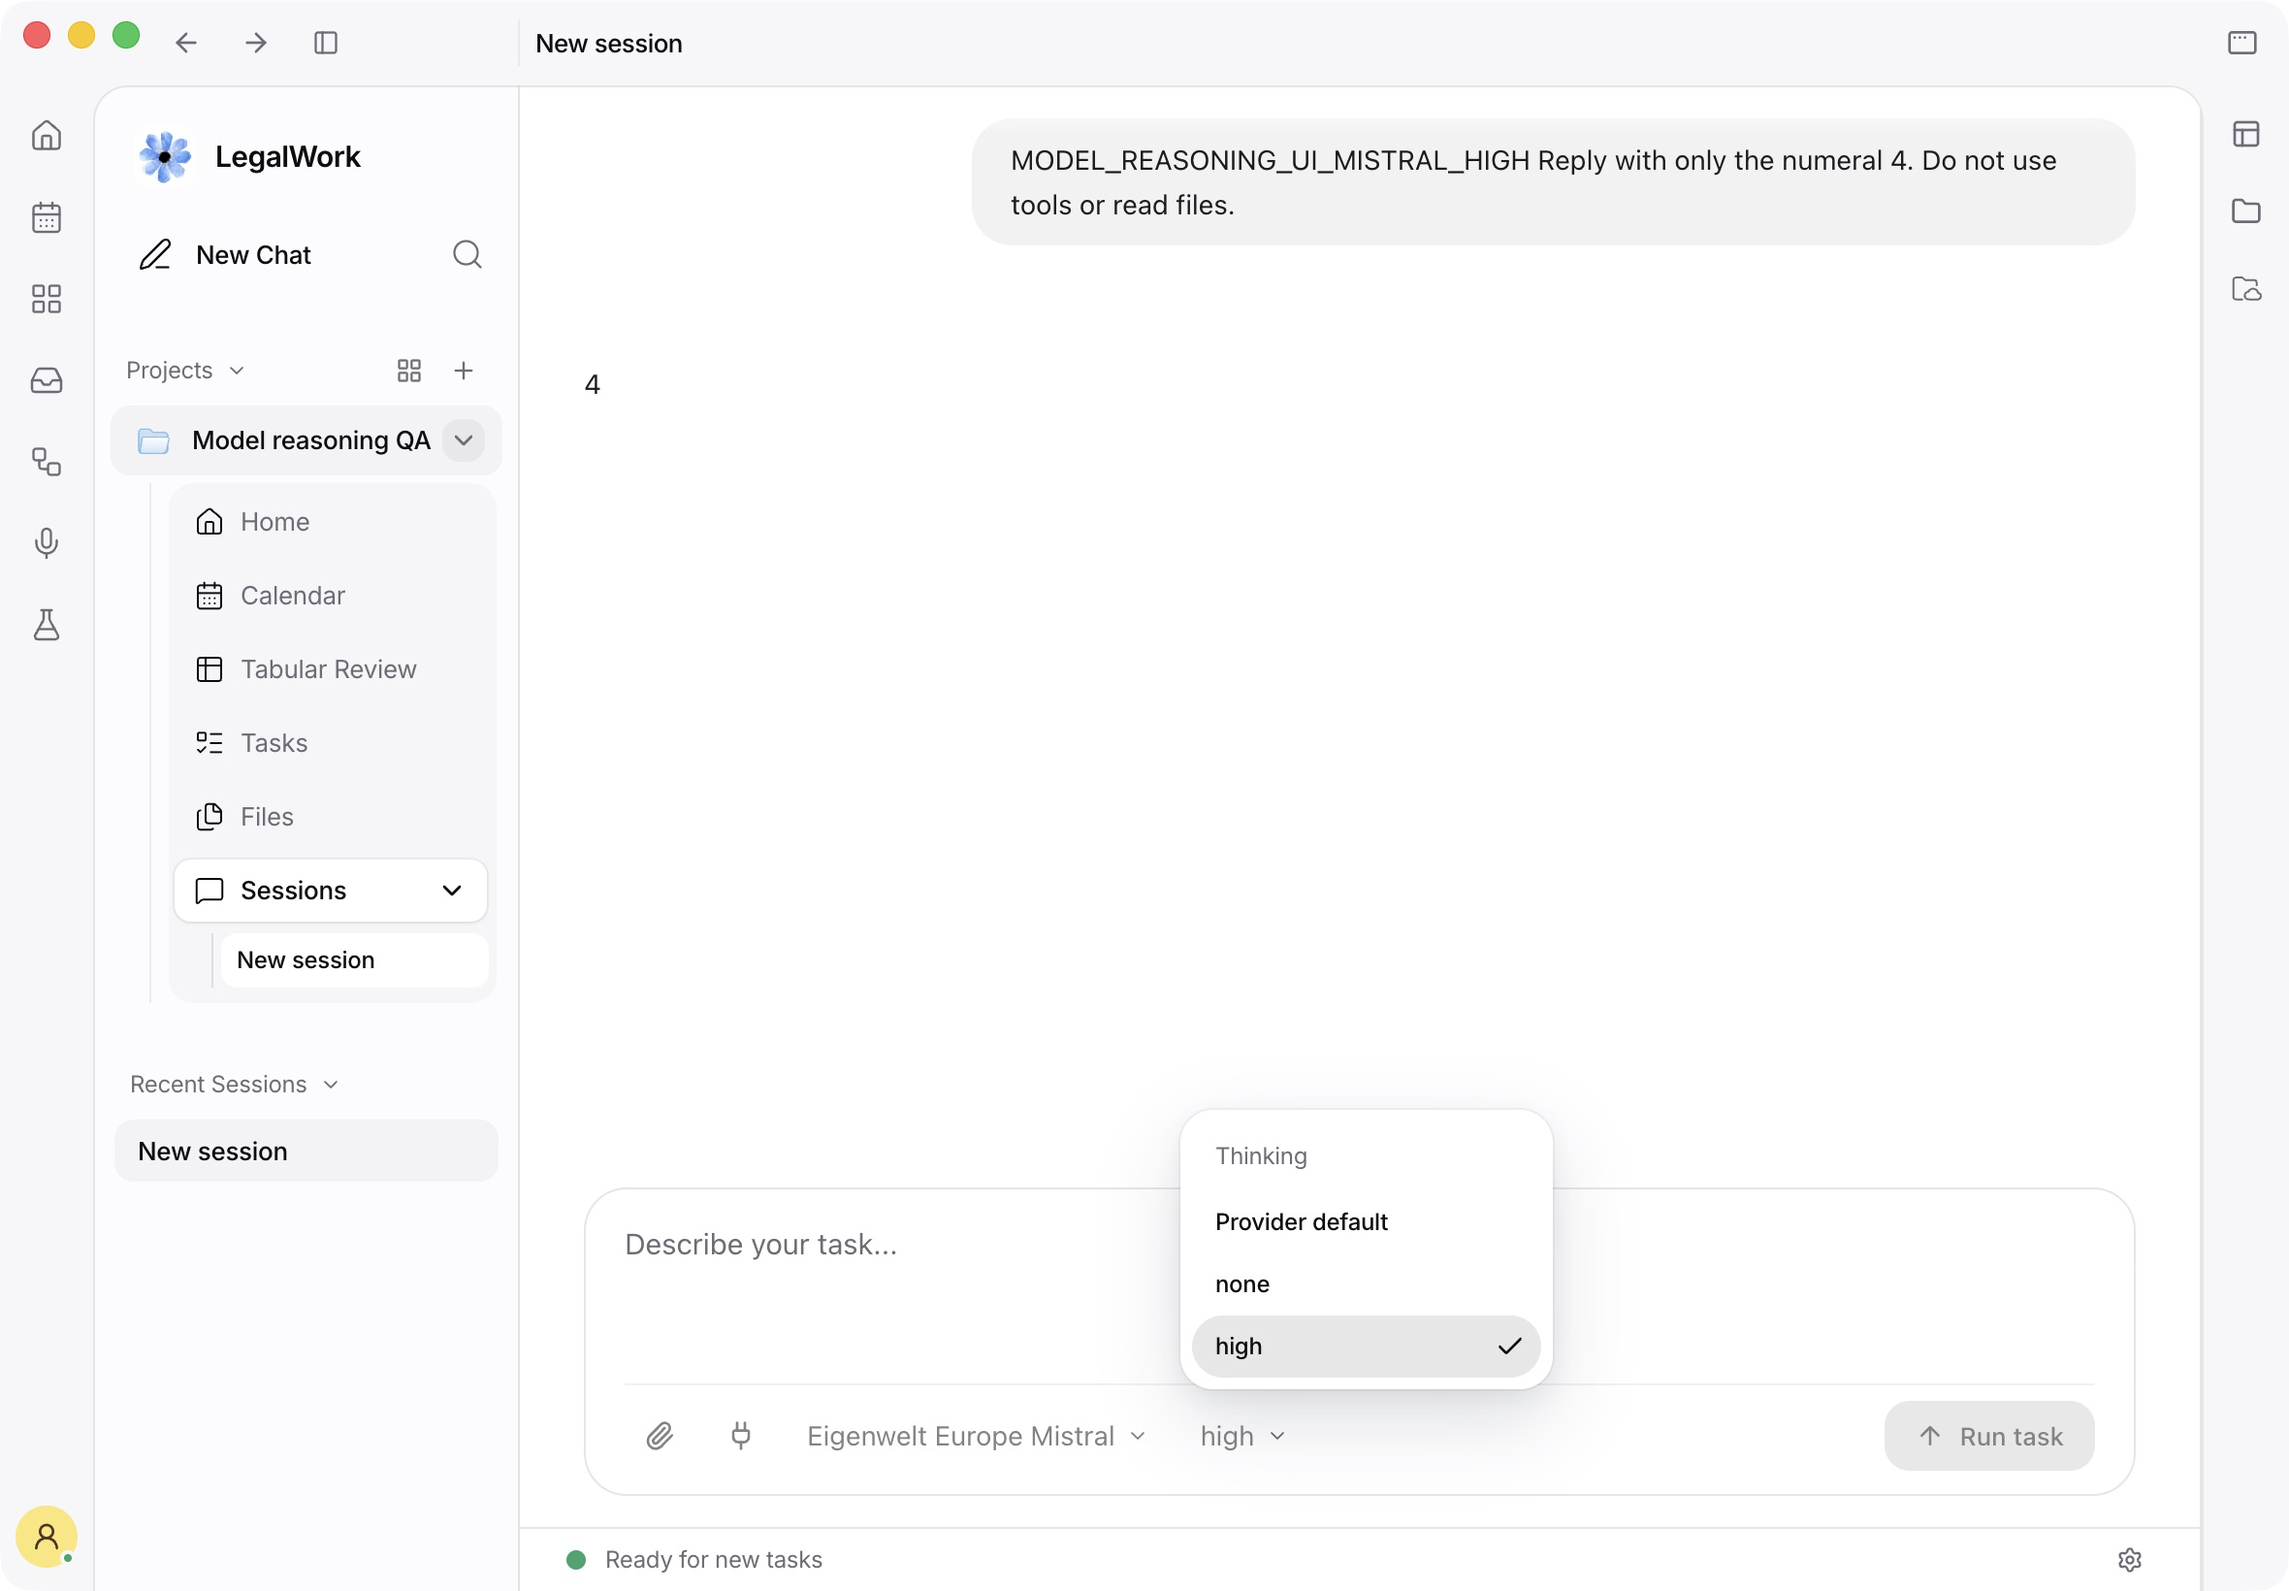
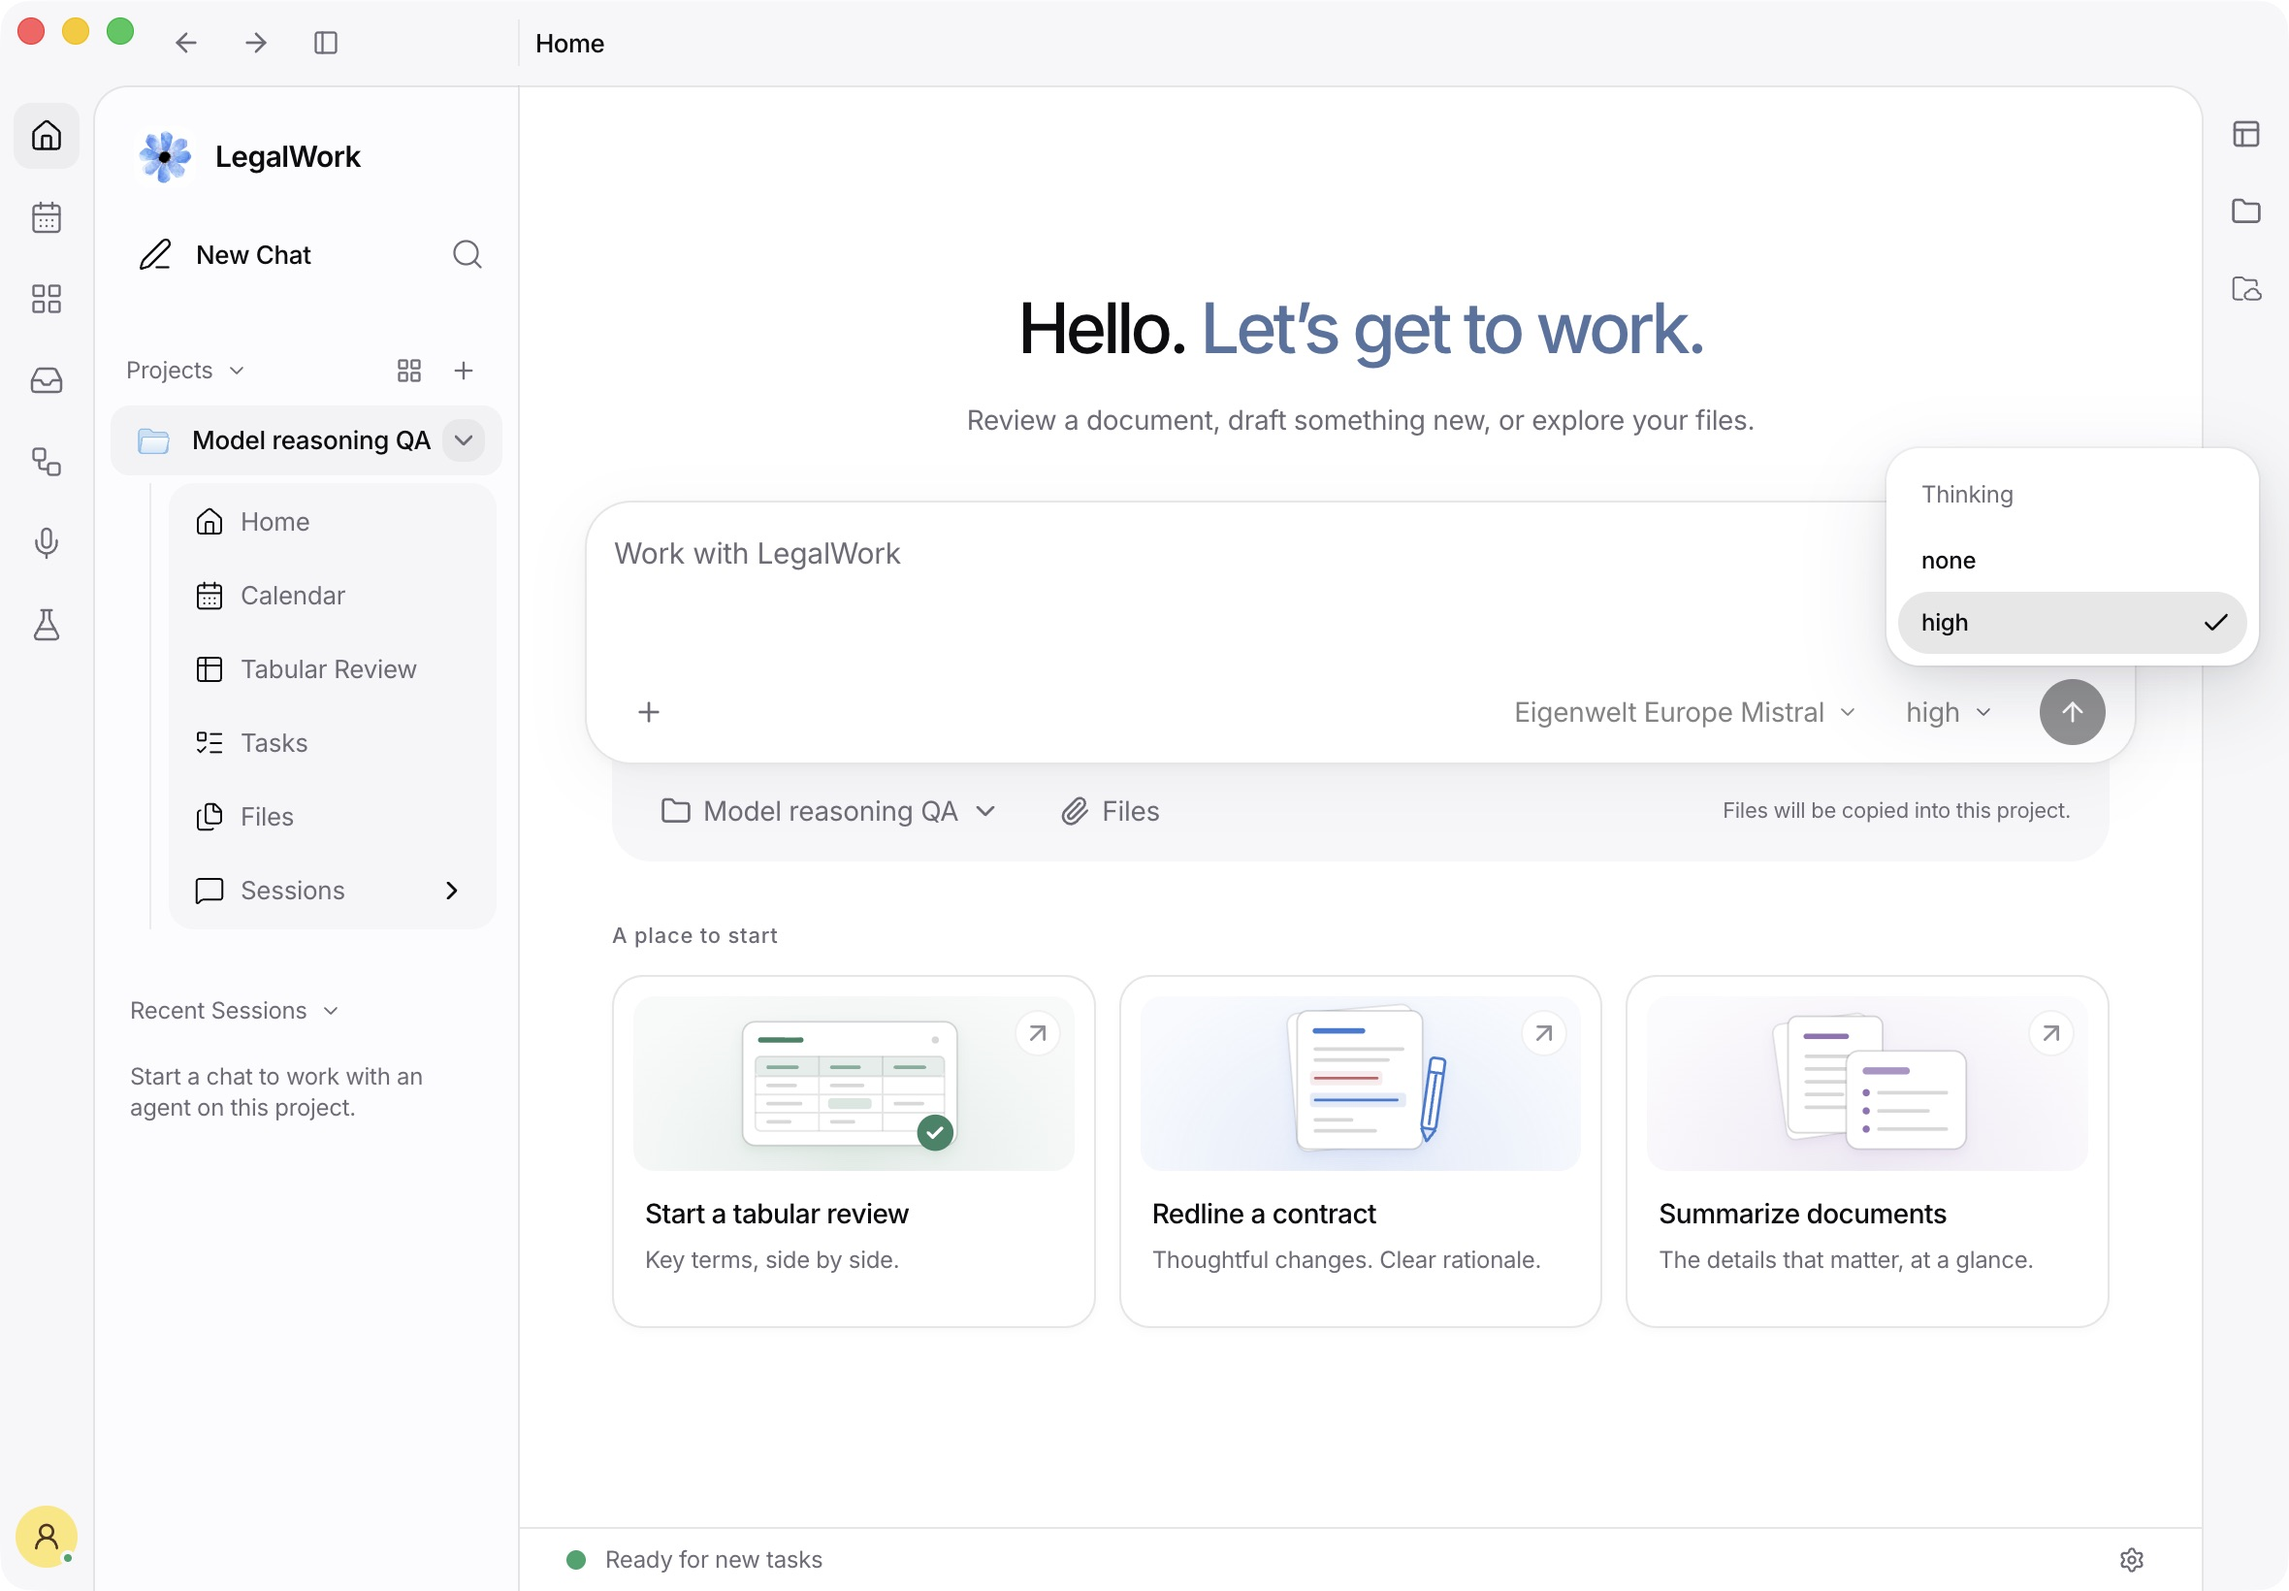
Preselect native reasoning defaults without an extra dropdown entry

diff --git a/apps/app/src/app/lib/model-behavior.ts b/apps/app/src/app/lib/model-behavior.ts
@@ -14,14 +14,6 @@ const WELL_KNOWN_VARIANT_ORDER = [
   "max",
 ] as const;
 
-function defaultBehaviorOption(): ModelBehaviorOption {
-  return {
-    value: null,
-    label: t("settings.provider_default_label"),
-    description: t("settings.provider_default_desc"),
-  };
-}
-
 export const normalizeModelBehaviorValue = (value: string | null) => {
   // Preferences store literal catalog keys; null alone means provider default.
   return value?.trim() || null;
@@ -84,7 +76,7 @@ const getVariantLabel = (_providerID: string, key: string, _providerName?: strin
 
 export const formatGenericBehaviorLabel = (value: string | null) => {
   const normalized = normalizeModelBehaviorValue(value);
-  if (!normalized) return defaultBehaviorOption().label;
+  if (!normalized) return t("app.model_behavior_title");
   return getVariantLabel("generic", normalized);
 };
 
@@ -117,18 +109,24 @@ export const getModelBehaviorOptions = (
 ): ModelBehaviorOption[] => {
   const variantKeys = sortVariantKeys(getVariantKeys(model));
   if (!variantKeys.length) return [];
-  return [
-    defaultBehaviorOption(),
-    ...variantKeys.map((key) => {
-      const label = getVariantLabel(providerID, key, providerName);
-      return {
-        value: key,
-        label,
-        description: getVariantDescription(providerID, key, label, providerName),
-      };
-    }),
-  ];
+  const defaultKey = defaultVariantKey(model);
+  return variantKeys.map((key) => {
+    const label = getVariantLabel(providerID, key, providerName);
+    return {
+      value: key,
+      label,
+      isDefault: key === defaultKey,
+      description: getVariantDescription(providerID, key, label, providerName),
+    };
+  });
 };
+
+const defaultVariantKey = (model: ProviderModel) => getVariantKeys(model).find((key) => {
+  const entries = Object.entries(model.variants?.[key] ?? {}).filter(([name]) => name !== "disabled");
+  // A matching effort alone is insufficient if the variant adds other settings.
+  return entries.length > 0 && entries.every(([name, value]) =>
+    JSON.stringify(model.options?.[name]) === JSON.stringify(value));
+});
 
 export const sanitizeModelBehaviorValue = (
   providerID: string,
@@ -153,17 +151,16 @@ export const getModelBehaviorSummary = (
 ) => {
   const options = getModelBehaviorOptions(providerID, model, providerName);
   const sanitized = sanitizeModelBehaviorValue(providerID, model, value, providerName);
-  // The engine applies model.options itself. Provider default must not select
-  // a variant with additional options merely because its effort has that name.
-  const selected = options.find((option) => option.value === sanitized) ?? options[0] ?? null;
+  // Display the configured native default while leaving the variant override unset.
+  const selected = options.find((option) => option.value === (sanitized ?? defaultVariantKey(model)));
   const title = getBehaviorTitle(providerID, model, getVariantKeys(model), providerName);
 
   if (options.length > 0) {
     return {
       title,
-      label: selected?.label ?? defaultBehaviorOption().label,
-      description: selected?.description ?? defaultBehaviorOption().description,
-      value: selected?.value ?? null,
+      label: selected?.label ?? title,
+      description: selected?.description ?? t("model_behavior.desc_builtin"),
+      value: sanitized,
       options,
     };
   }

diff --git a/apps/app/tests/model-behavior.test.ts b/apps/app/tests/model-behavior.test.ts
@@ -31,10 +31,30 @@ describe("catalog variants", () => {
     expect(getModelBehaviorSummary("eigenwelt", binary, saved).value).toBeNull();
   });
 
-  test("provider default leaves model options to the engine without selecting a variant", () => {
-    expect(getModelBehaviorSummary("custom", model(["low", "high", "max"], "max"), null).value).toBeNull();
-    expect(getModelBehaviorSummary("custom", model(["none", "high"], "none"), null).value).toBeNull();
-    expect(getModelBehaviorSummary("custom", model(["low", "medium", "high"]), null).value).toBeNull();
+  test.each(["none", "high", "max"])("displays native default %s without an extra dropdown item or variant override", (effort) => {
+    const summary = getModelBehaviorSummary("custom", model(["none", "high", "max"], effort), null);
+    expect(summary.label).toBe(effort);
+    expect(summary.value).toBeNull();
+    expect(summary.options.map((option) => option.value)).toEqual(["none", "high", "max"]);
+    expect(summary.options.filter((option) => option.isDefault).map((option) => option.value)).toEqual([effort]);
+  });
+
+  test("does not invent a default when metadata is absent or a variant adds settings", () => {
+    const unconfigured = getModelBehaviorSummary("custom", model(["low", "medium", "high"]), null);
+    expect(unconfigured.value).toBeNull();
+    expect(unconfigured.options.some((option) => option.label === unconfigured.label)).toBe(false);
+    const configured = model(["low", "high"], "high");
+    configured.variants = { high: { reasoningEffort: "high", custom: { budget: 42 } }, low: { reasoningEffort: "low" } };
+    const summary = getModelBehaviorSummary("custom", configured, null);
+    expect(summary.value).toBeNull();
+    expect(summary.label).not.toBe("high");
+    expect(getModelBehaviorSummary("custom", configured, "high").value).toBe("high");
+  });
+
+  test("unsupported saved choices display the configured native default", () => {
+    const summary = getModelBehaviorSummary("custom", model(["none", "high"], "high"), "medium");
+    expect(summary.label).toBe("high");
+    expect(summary.value).toBeNull();
   });
 
   test("custom catalog keys preserve their case and options", () => {
@@ -60,7 +80,7 @@ describe("catalog variants", () => {
   test("GLM exposes low/high/max without a medium or off choice", () => {
     const summary = getModelBehaviorSummary("eigenwelt", model(["low", "high", "max"]), "medium");
     expect(summary.value).toBeNull();
-    expect(summary.options.map((option) => option.value)).toEqual([null, "low", "high", "max"]);
+    expect(summary.options.map((option) => option.value)).toEqual(["low", "high", "max"]);
   });
 
   test("disabled variants cannot be selected and built-in reasoning still works", () => {

diff --git a/apps/server/scripts/reasoning-smoke.ts b/apps/server/scripts/reasoning-smoke.ts
@@ -112,6 +112,17 @@ try {
     const keys = Object.entries(entry.variants).filter(([, value]) => !value.disabled).map(([key]) => key);
     const actual = Object.keys(model.variants ?? {}).sort();
     if (JSON.stringify(actual) !== JSON.stringify([...keys].sort())) throw new Error(`${entry.id}: inferred unsupported efforts survived`);
+    const initial = getModelBehaviorSummary("eigenwelt", model, null);
+    if (initial.options.some((option) => option.value === null) || initial.value !== null) {
+      throw new Error(`${entry.id}: the UI added a default item or selected an implicit variant`);
+    }
+    if (typeof entry.options?.reasoningEffort === "string" && initial.label !== entry.options.reasoningEffort) {
+      throw new Error(`${entry.id}: the UI did not display the configured native default`);
+    }
+    if (typeof entry.options?.reasoningEffort === "string" &&
+        initial.options.filter((option) => option.isDefault).map((option) => option.value).join() !== entry.options.reasoningEffort) {
+      throw new Error(`${entry.id}: the native default was not selected in the dropdown`);
+    }
     const selections: Array<string | null> = [null, "engine-default", ...keys];
     // Unsupported saved choices must return to provider default on every model.
     for (const old of ["low", "medium"]) if (!keys.includes(old)) selections.push(old);

diff --git a/apps/app/src/components/model-behavior-select.tsx b/apps/app/src/components/model-behavior-select.tsx
@@ -19,6 +19,7 @@ import {
 type ModelBehaviorOption = {
   value: string | null;
   label: string;
+  isDefault?: boolean;
 };
 
 type ModelBehaviorSelectProps = {
@@ -44,7 +45,7 @@ export function ModelBehaviorSelect({
   const rawValue = value ?? null;
   const selectValue = items.some((option) => option.value === rawValue)
     ? rawValue
-    : null;
+    : items.find((option) => option.isDefault)?.value ?? null;
 
   return (
     <Select

diff --git a/apps/app/src/app/types.ts b/apps/app/src/app/types.ts
@@ -424,6 +424,7 @@ export type ModelRef = {
 export type ModelBehaviorOption = {
   value: string | null;
   label: string;
+  isDefault?: boolean;
   description: string;
 };
 

diff --git a/docs/qa/model-reasoning.md b/docs/qa/model-reasoning.md
@@ -51,8 +51,12 @@ Provide the disposable server's bearer token as `MODEL_REASONING_ENGINE_KEY`
 through the environment. Leave the Electron window idle while the matrix runs;
 test normal composer interactions separately.
 
-Verify Mistral `none/high`, GLM `low/high/max`, and Provider default in the real
-composer. Inspect requests to confirm Provider default omits the effort override.
+Verify Mistral `none/high` and GLM `low/high/max` in the real composer. The
+Mistral dropdown must start with `high` selected and contain exactly two entries;
+GLM must start with `max` selected and contain exactly three entries. There is no
+additional Provider default entry. An unset variant uses the model's standard
+`options.reasoningEffort`; that effort is sent explicitly. Select a different
+effort and then return to the original choice, checking the recorded requests.
 Turn online catalog updates off in the disposable profile's Privacy settings and
 verify paid models and explicit controls still work. Restore the switch afterward.
 
@@ -63,19 +67,35 @@ Google service identity because local application-default credentials had expire
 The local paid-account fixture does not test the production OAuth sign-in exchange.
 Prompts and file contents were synthetic; production configuration was unchanged.
 
-Results: the complete 15-model matrix passed 113 checks in the actual Electron
-setup with a synthetic upstream, as well as 113 checks in the isolated engine.
-Live providers passed 65 distinct checks: all choices and read tools on nine
-routes, plus the two default checks on EU GPT Luna. OpenRouter then returned
-HTTP 402, "Insufficient credits," leaving 48 live checks incomplete on the
-remaining six routes. Both its EU and US endpoints returned the credit error.
-The seven routes using other providers passed all 47 checks while online catalog
-updates were disabled. Actual composer requests also verified Mistral `high/none`,
-GLM `max`, and GLM Provider default with no effort override. The hosted catalog
-was fetched successfully through the Next.js dev server after restoring updates.
+The latest native-default update passed the complete 15-model matrix: 113
+checks in the actual Electron setup with a synthetic upstream, and 113 checks
+in the isolated engine. Each model also verifies that the dropdown marks its
+configured native default, contains no extra default item, and keeps the variant
+override unset until an explicit choice. All matrix requests are checked for the
+expected effort, streaming and HTTP 200, including both read-tool rounds.
+The normal Electron composer separately sent GLM `max`, then `low`, then `max`
+after returning to its original choice; all three synthetic requests streamed
+and returned HTTP 200. Fresh-launch screenshots verify Mistral `high` and GLM
+`max` with no additional default entry.
+
+Live verification of this update passed 33 checks across five complete routes:
+EU DeepSeek, Gemini, GLM and Mistral, plus US Gemini. OpenRouter EU and US still
+return HTTP 402, "Insufficient credits." Fireworks returned HTTP 401,
+"Unauthorized," for US DeepSeek and US GLM; separate synthetic requests to the
+production paid gateway reproduced both errors. This prevents completing the
+live matrix on the other ten routes. Credentials and production configuration
+were not changed. These upstream failures are separate from synthetic protocol
+verification; do not claim that all routes passed live.
+
+Before the default-display update, live verification passed 65 distinct checks,
+including nine complete routes, and the seven non-OpenRouter routes passed with
+online catalog updates disabled. The hosted public catalog was fetched through
+the Next.js dev server after restoring the disposable profile's Privacy switch.
+The new default values are published in the paid manifest's standard OpenCode
+options, independently of public catalog updates.
 
 Screenshots from the actual Electron app:
 
-![Mistral high response and controls](model-reasoning-electron-mistral.jpg)
+![Mistral native default and its two choices](model-reasoning-electron-mistral.jpg)
 
-![GLM max response and controls](model-reasoning-electron-glm.jpg)
+![GLM native default and its three choices](model-reasoning-electron-glm.jpg)
